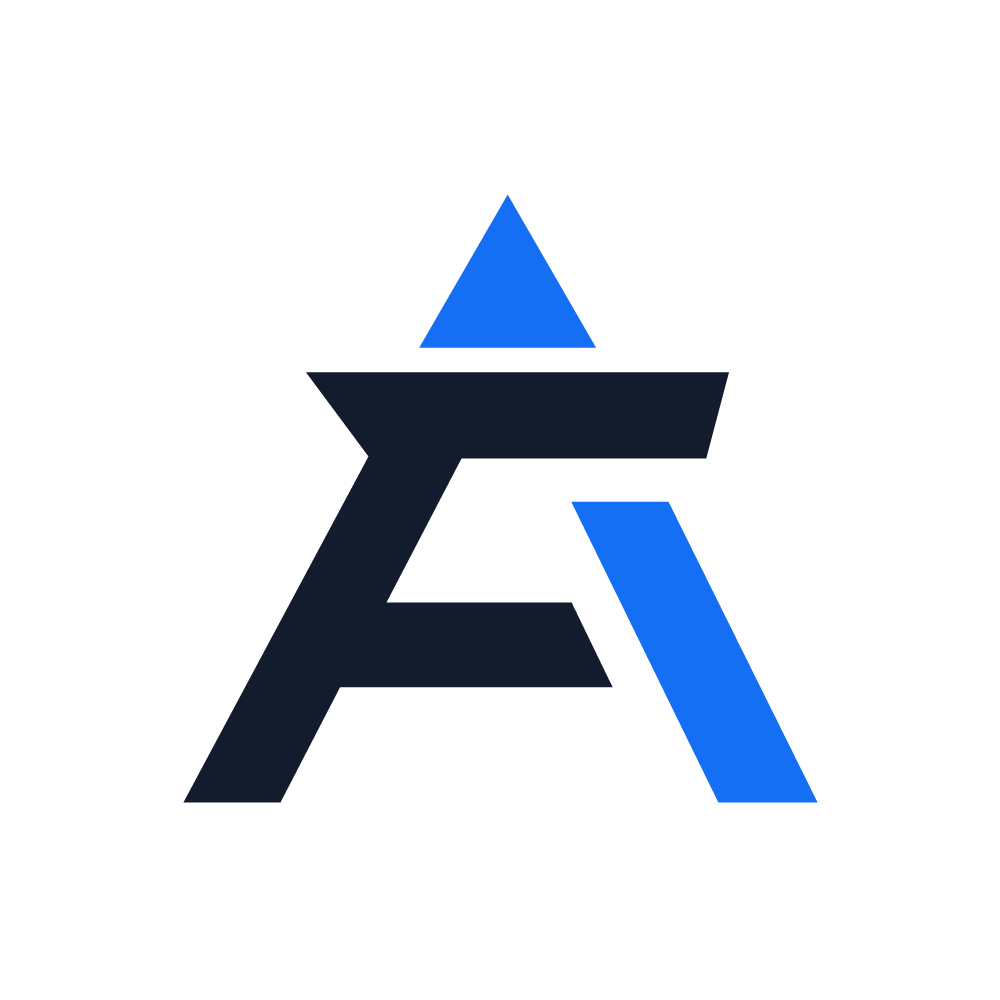
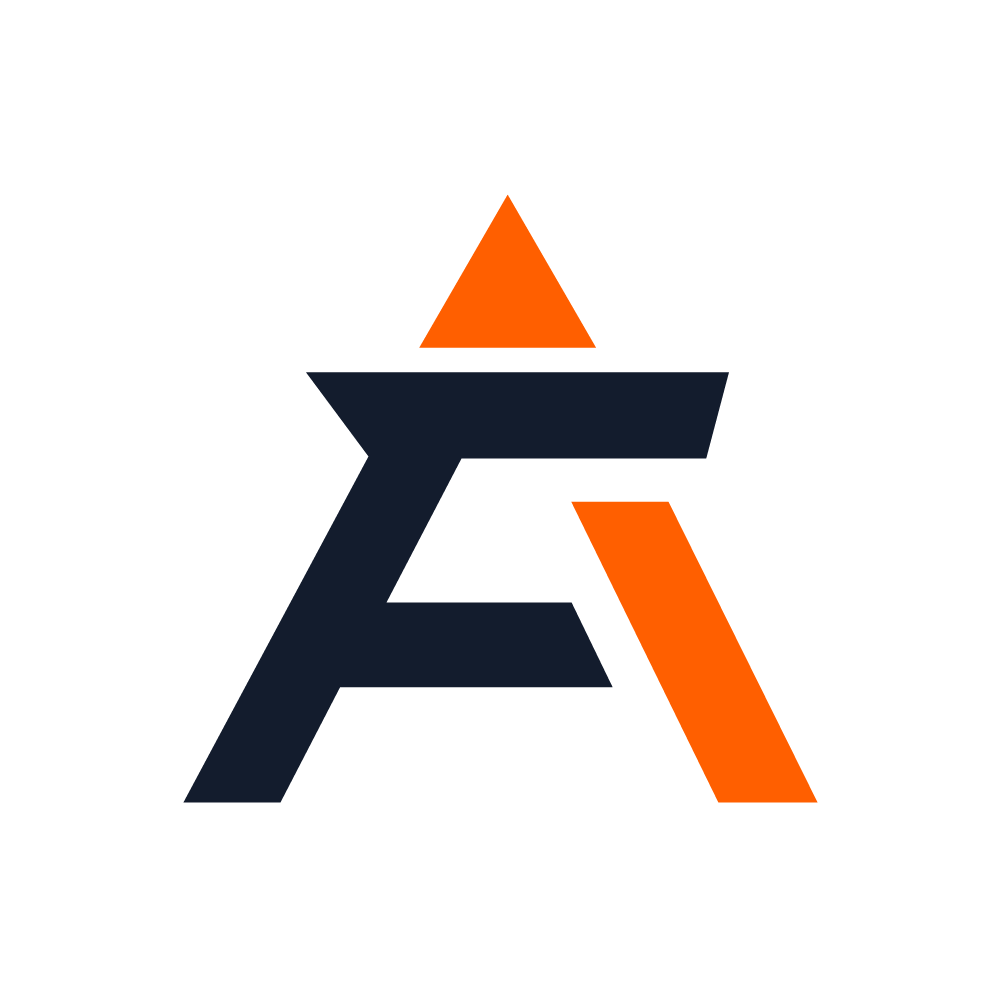
Hero Section (changes)

Changed region(s): [[0.558, 0.496, 0.837, 0.806], [0.403, 0.186, 0.589, 0.372]]

diff --git a/public/assets/css/style.css b/public/assets/css/style.css
@@ -787,7 +787,7 @@ select.form-control:not([size]):not([multiple]) {
 .card .card-header h4 {
   font-size: 16px;
   line-height: 28px;
-  color: #146ff4;
+  color: #ff5f00;
   padding-right: 10px;
   margin-bottom: 0;
 }
@@ -1295,8 +1295,8 @@ table tr:hover .table-links {
   margin: 0 3px;
 }
 .page-item.active .page-link {
-  background-color: #146ff4;
-  border-color: #146ff4;
+  background-color: #ff5f00;
+  border-color: #ff5f00;
 }
 .page-item.disabled .page-link {
   border-color: transparent;
@@ -3404,7 +3404,7 @@ body.layout-3 .main-footer {
   background-color: #f8fafb;
 }
 .main-sidebar .sidebar-menu li.active a {
-  color: #146ff4;
+  color: #ff5f00;
   font-weight: 600;
   background-color: #f8fafb;
 }
@@ -3517,7 +3517,7 @@ body:not(.sidebar-mini) .sidebar-style-2 .sidebar-menu > li.active > a:before {
   transform: translateY(-50%);
   height: 25px;
   width: 4px;
-  background-color: #146ff4;
+  background-color: #ff5f00;
 }
 body:not(.sidebar-mini) .sidebar-style-2 .sidebar-menu li.active ul.dropdown-menu li a {
   padding-left: 61px;
